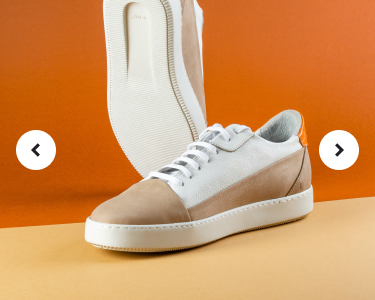
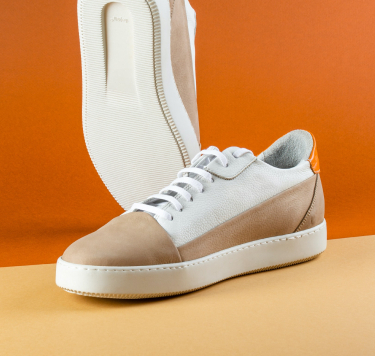
adjustments and corrections in the navbar, modal and home

Changed region(s): [[0.0, 0.0, 0.968, 0.87], [0.0293, 0.42, 0.1467, 0.57], [0.968, 0.63, 1.0, 0.66]]

diff --git a/css/styles.css b/css/styles.css
@@ -135,6 +135,7 @@ body {
   .navbar {
     width: 100%;
     padding: 19px 24px 20px 24px;
+    height: auto;
   }
 }
 .navbar .navbar__logo {
@@ -210,6 +211,11 @@ body {
     padding: 46px 25px 25px 25px;
     background: #fff;
     box-shadow: 0 0 0 100vmax rgba(0, 0, 0, 0.75);
+  }
+}
+@media (max-width: 395px) {
+  .navbar .navbar__items .items {
+    padding: 24px 25px 25px 25px;
   }
 }
 .navbar .navbar__items .items.items--visible {
@@ -355,11 +361,12 @@ body {
 }
 @media (max-width: 395px) {
   .cart {
-    width: 95%;
-    height: 45%;
-    right: 40px;
-    left: 128px;
-    position: initial;
+    display: block;
+    position: absolute;
+    height: auto;
+    left: 50%;
+    transform: translate(-50%, -50%);
+    top: 18%;
   }
 }
 .cart .cart__title {
@@ -367,6 +374,14 @@ body {
   height: 26.6%;
   border-bottom: 1px solid #E4E9F2;
   margin-bottom: 24px;
+}
+@media (max-width: 395px) {
+  .cart .cart__title {
+    margin-bottom: 27px;
+  }
+  .cart .cart__title h3 {
+    font-size: 16px;
+  }
 }
 .cart .cart__empty {
   display: none;
@@ -386,6 +401,12 @@ body {
   width: 50px;
   height: 50px;
 }
+@media (max-width: 395px) {
+  .cart .cart__buy .buy__content .buy__img img {
+    width: 50px;
+    height: 50px;
+  }
+}
 .cart .cart__buy .buy__content .buy__texts {
   color: #69707D;
   font-family: "Kumbh Sans";
@@ -404,6 +425,11 @@ body {
 }
 .cart .cart__buy .buy__content .delete-icon {
   color: #C3CAD9;
+}
+@media (max-width: 395px) {
+  .cart .cart__buy .buy__content .delete-icon span {
+    font-size: 18px;
+  }
 }
 .cart .cart__buy .info__button {
   width: 100%;
@@ -443,6 +469,7 @@ body {
 }
 @media (max-width: 395px) {
   .main .hero {
+    width: 100%;
     margin-bottom: 88px;
   }
 }
@@ -471,7 +498,8 @@ body {
 }
 .main .hero .hero__imgs .img__xl img {
   width: 100%;
-  height: 445px;
+  height: 300px;
+  content: url("../../img/shoes-mobile.jpg");
 }
 .main .hero .hero__imgs .imgs__xs {
   height: auto;
@@ -554,13 +582,19 @@ body {
     line-height: 25px;
   }
 }
-.main .hero .hero__info .info__price {
+.main .hero .hero__info .info__amount {
   width: 100%;
   display: flex;
+  margin-bottom: 24px;
+  height: auto;
+  justify-content: space-between;
   align-items: center;
-  margin-bottom: 10px;
 }
-.main .hero .hero__info .info__price p {
+.main .hero .hero__info .info__amount .info__price {
+  display: flex;
+  align-items: center;
+}
+.main .hero .hero__info .info__amount .info__price p {
   margin-right: 16px;
   font-size: 28px;
   font-weight: 700;
@@ -568,7 +602,7 @@ body {
   font-style: normal;
   color: #1D2026;
 }
-.main .hero .hero__info .info__price span {
+.main .hero .hero__info .info__amount .info__price span {
   width: 51px;
   height: 27px;
   border-radius: 6px;
@@ -582,8 +616,7 @@ body {
   font-style: normal;
   color: #FF7E1B;
 }
-.main .hero .hero__info .info__discount {
-  margin-bottom: 32px;
+.main .hero .hero__info .info__amount .info__discount {
   text-decoration: line-through;
   font-size: 16px;
   font-weight: 700;

diff --git a/sass/pages/_home.scss b/sass/pages/_home.scss
@@ -29,6 +29,7 @@
         }
 
         @include x-small {
+            width: 100%;
             margin-bottom: 88px;
         }
 
@@ -53,10 +54,11 @@
                 width: 100%;
                 height: auto;
 
-
                 img {
                     width: 100%;
-                    height: 445px;
+                    height: 300px;
+                    content: url('../../img/shoes-mobile.jpg');
+
                 }
             }
 
@@ -127,32 +129,40 @@
                 }
             }
 
-            .info__price {
+            .info__amount {
                 width: 100%;
                 display: flex;
+                margin-bottom: 24px;
+                height: auto;
+                justify-content: space-between;
                 align-items: center;
-                margin-bottom: 10px;
 
-                p {
-                    margin-right: 16px;
-                    @include typography(28px, 700, normal, normal, $grey-dark);
+                .info__price {
+                    display: flex;
+                    align-items: center;
+
+                    p {
+                        margin-right: 16px;
+                        @include typography(28px, 700, normal, normal, $grey-dark);
+                    }
+
+                    span {
+                        width: 51px;
+                        height: 27px;
+                        border-radius: 6px;
+                        background: #FFEEE2;
+                        @include flex-group(flex, center, center);
+                        @include typography(16px, 700, normal, normal, $primaryColor);
+                    }
                 }
 
-                span {
-                    width: 51px;
-                    height: 27px;
-                    border-radius: 6px;
-                    background: #FFEEE2;
-                    @include flex-group(flex, center, center);
-                    @include typography(16px, 700, normal, normal, $primaryColor);
+                .info__discount {
+                    text-decoration: line-through;
+                    @include typography(16px, 700, 26px, normal, $grey-number);
                 }
+
             }
 
-            .info__discount {
-                margin-bottom: 32px;
-                text-decoration: line-through;
-                @include typography(16px, 700, 26px, normal, $grey-number);
-            }
 
             .info__cart {
                 width: 100%;

diff --git a/index.html b/index.html
@@ -61,7 +61,7 @@
             <div class="cart__buy">
                 <div class="buy__content">
                     <div class="buy__img">
-                        <img src="./img/buy-Shoes.svg" alt="">
+                        <img src="./img/shoes2.jpg" alt="">
                     </div>
                     <div class="buy__texts">
                         <p>Fall Limited Edition Sneakers</p>
@@ -103,11 +103,15 @@
                 <p class="info__company">Sneaker Company</p>
                 <h1 class="info__title">Fall Limited Edition Sneakers</h1>
                 <p class="info__paragraph">These low-profile sneakers are your perfect casual wear companion. Featuring a durable rubber outer sole, they’ll withstand everything the weather can offer.</p>
-                <div class="info__price">
-                    <p>$125.00</p>
-                    <span>50%</span>
+                <div class="info__amount">
+                    <div class="info__price">
+                        <p>$125.00</p>
+                        <span>50%</span>
+                    </div>
+                    <div class="info__discount">
+                        <p class="info__discount">$250.00</p>
+                    </div>
                 </div>
-                <p class="info__discount">$250.00</p>
                 <div class="info__cart">
                     <div class="info__counter">
                         <button class="btn decrease"><span class="material-symbols-outlined">

diff --git a/sass/components/_cart.scss b/sass/components/_cart.scss
@@ -15,7 +15,7 @@
 
     right: 142px;
     width: 35%;
-    
+
 
     @include medium {
         width: calc(96% - 2px);
@@ -28,11 +28,12 @@
     }
 
     @include x-small {
-        width: 95%;
-        height: 45%;
-        right: 40px;
-        left: 128px;
-        position: initial;
+        display: block;
+        position: absolute;
+        height: auto;
+        left: 50%;
+        transform: translate(-50%, -50%);
+        top: 18%;
     }
 
     .cart__title {
@@ -40,6 +41,14 @@
         height: 26.6%;
         border-bottom: 1px solid $lineGrey;
         margin-bottom: 24px;
+
+        @include x-small {
+            margin-bottom: 27px;
+
+            h3 {
+                font-size: 16px;
+            }
+        }
     }
 
     .cart__empty {
@@ -60,6 +69,13 @@
             .buy__img {
                 width: 50px;
                 height: 50px;
+
+                @include x-small {
+                    img {
+                        width: 50px;
+                        height: 50px;
+                    }
+                }
             }
 
             .buy__texts {
@@ -82,6 +98,11 @@
 
             .delete-icon {
                 color: #C3CAD9;
+                @include x-small {
+                    span {
+                        font-size: 18px;
+                    }
+                }
             }
         }
 

diff --git a/sass/components/_navbar.scss b/sass/components/_navbar.scss
@@ -20,6 +20,7 @@
     @include x-small {
         width: 100%;
         padding: 19px 24px 20px 24px;
+        height: auto;
     }
 
     .navbar__logo {
@@ -81,6 +82,10 @@
                 padding: 46px 25px 25px 25px;
                 background: #fff;
                 box-shadow: 0 0 0 100vmax rgba(0, 0, 0, 0.75);
+            }
+
+            @include x-small {
+                padding: 24px 25px 25px 25px;
             }
 
             &.items--visible {

diff --git a/ecommerce.js b/ecommerce.js
@@ -40,8 +40,10 @@ btns.forEach(function(btn) {
         const styles = e.currentTarget.classList;
 
         if(styles.contains('decrease')) {
-            count--;
-            value.textContent = count;
+            if(count > 0) {
+                count--;
+                value.textContent = count;
+            }
         } else if (styles.contains('increase')) {
             count++;
             value.textContent = count;
